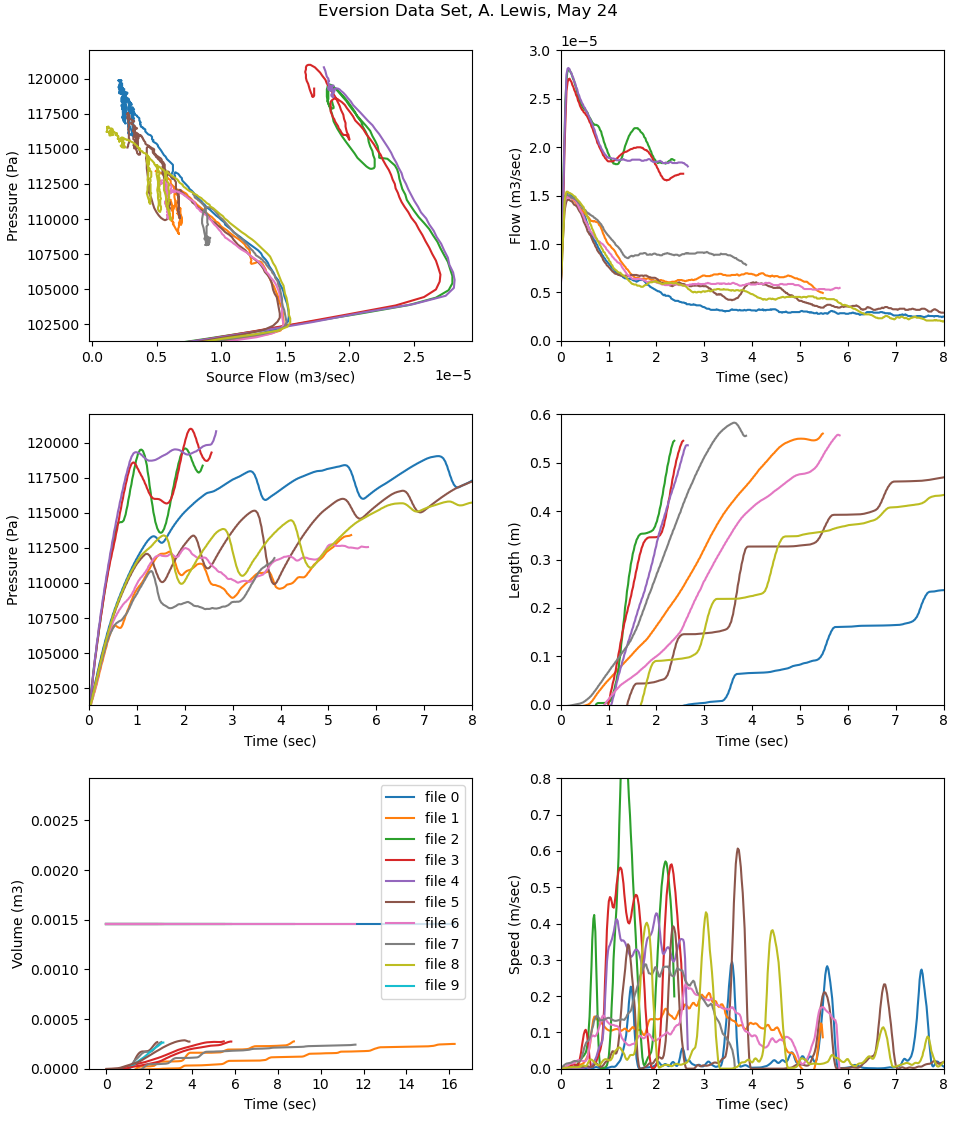
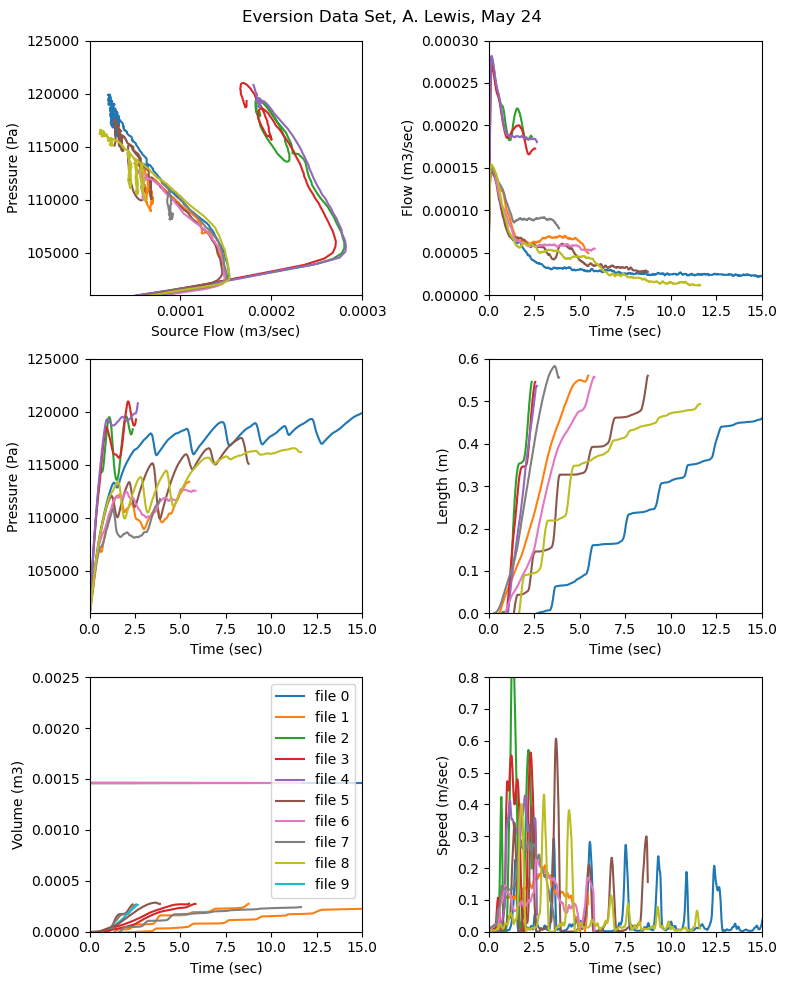
selective plotting in graphData makes plotData redundant

diff --git a/plotData.py b/plotData.py
@@ -89,6 +89,34 @@ ed = et.convert_units(ed,uc)
 # HACK
 ed['flow'] *= 10.0
 
+
+###################################################
+#
+#    Load plotting parameters
+#
+###################################################
+fnpr = 'plottingRanges.txt'
+fpp = open(fnpr,'r')
+prd = {}  #plotting range dict
+for line in fpp:
+    par, n1, n2 = line.split(':')
+    prd[par.strip()] = (float(n1), float(n2))
+print(prd)
+
+FPLOT = False
+PltTMIN  = prd['Time'][0]
+PltTMAX  = prd['Time'][1]
+PltPrMIN = prd['Pressure'][0]
+PltPrMAX = prd['Pressure'][1]
+PltFlMIN = prd['Flow'][0]
+PltFlMAX = prd['Flow'][1]
+PltLeMIN = prd['Length'][0]
+PltLeMAX = prd['Length'][1]
+PltSpMIN = prd['Speed'][0]
+PltSpMAX = prd['Speed'][1]
+PltVoMIN = prd['Volume'][0]
+PltVoMAX = prd['Volume'][1]
+
 #########################################################################
 #
 #   Plot all the subplots
@@ -103,6 +131,8 @@ PltTMAX = 8.0
 
 x = ed['flow']
 y = ed['P']
+time = ed['time']
+
     #HW= 0.00001
     #HL= 0.0001
 Interval = 25
@@ -112,7 +142,9 @@ axs[0,0].set_ylabel('Pressure (Pa)')
 axs[0,0].set_xlim(0,0.0003)
 plt.sca(axs[0,0])
 plt.xticks([0.0001, 0.0002, 0.0003])
-axs[0,0].set_ylim(pd['Patmosphere'], pd['Psource_SIu'])
+
+axs[0,0].set_xlim(PltFlMIN, PltFlMAX)
+axs[0,0].set_ylim(PltPrMIN, PltPrMAX)
 
 # Plot 2   # PRESSURE
 axs[1,0].plot(np.array(ed['time']), np.array(ed['P']), '--', color=clrs[1])  # Experimental Data
@@ -120,37 +152,44 @@ axs[1,0].plot(np.array(ed['time']), np.array(ed['P']), '--', color=clrs[1])  # E
 #axs[1,0].plot(time, pc2)
 axs[1,0].set_xlabel('Time (sec)')
 axs[1,0].set_ylabel('Pressure (Pa)')
-axs[1,0].set_xlim(PltTMIN, PltTMAX)
+
 
 # Plot 3
-#axs[2,0].plot(time, vol1, time, vol2 )
+axs[2,0].plot(time, ed['vol1'], time, ed['vol2'] )
 axs[2,0].legend(['Vhousing', 'Vtube'])
 axs[2,0].set_xlabel('Time (sec)')
 axs[2,0].set_ylabel('Volume (m3)')
+
 axs[2,0].set_xlim(PltTMIN, PltTMAX)
-#axs[2,0].set_ylim( 0.0012, 0.0022 )
+axs[2,0].set_ylim(PltVoMIN, PltVoMAX)
+
 
 axs[0,1].plot(ed['time'], ed['flow'], '--',color=clrs[1])  # Experimental Data
 #axs[0,1].plot(time, f, time, ft)
 axs[0,1].set_xlabel('Time (sec)')
 axs[0,1].set_ylabel('Flow (m3/sec)')
 axs[0,1].legend(['Source Flow', 'Tube Flow'])
+
 axs[0,1].set_xlim(PltTMIN, PltTMAX)
-axs[0,1].set_ylim(      0, 0.00020 )
+axs[0,1].set_ylim(PltFlMIN, PltFlMAX)
 
 axs[1,1].plot(ed['time'], ed['L'], '--',color=clrs[1])  # Experimental Data
 #axs[1,1].plot(time, l, time, lc)
 axs[1,1].set_xlabel('Time (sec)')
 axs[1,1].set_ylabel('Length (m)')
+
 axs[1,1].set_xlim(PltTMIN, PltTMAX)
-axs[1,1].set_ylim(      0, 0.600 )
+axs[1,1].set_ylim(PltLeMIN, PltLeMAX)
+
 
 axs[2,1].plot(ed['time'], ed['Ldot'], '--',color=clrs[1])  # Experimental Data
 #axs[2,1].plot(time, ldot)
 axs[2,1].set_xlabel('Time (sec)')
 axs[2,1].set_ylabel('Tube Velocity (m/sec)')
+
 axs[2,1].set_xlim(PltTMIN, PltTMAX)
-axs[2,1].set_ylim(      0, 0.5 )
+axs[2,1].set_ylim(PltSpMIN, PltSpMAX)
+
 
 
 

diff --git a/graphExpData.py b/graphExpData.py
@@ -71,6 +71,8 @@ for datadir in dataDirNames:
             cto.error('No brl_data files found')
         for f in files:
             #print('found: ',f)
+            if '.zip' in f:
+                next
             if '.csv' in f :
                 filenameroots.append(str(f).replace('.csv',''))
             if  '_meta.json' in f:
@@ -79,6 +81,26 @@ for datadir in dataDirNames:
         filenameroots = list(dict.fromkeys(filenameroots)) # elim dupes
         files += tfiles
         fnRoots += filenameroots
+
+print('file set: ', files)
+###################################################
+#
+#   Select Files
+#
+###################################################
+for i,fn in enumerate(files):
+    fn2 = fn.split('/')[1]
+    print(f'{i:3}  {fn2}')
+
+sel = str(input('Select file numbers (-1) for all: '))
+nums = sel.split()
+fset=[] # place to collect selected filenames
+if int(nums[0]) < 0:
+    fset = range(len(files))
+else:
+    for n in nums:
+        fset.append(int(n))
+
 
 ###################################################
 #
@@ -111,8 +133,11 @@ PltVoMAX = prd['Volume'][1]
 # Create a figure with subplots
 fig, axs = plt.subplots(3, 2, figsize=(8, 10))
 
-for i,fn in enumerate(files):
-    #print(f'{i:5}', fn)
+#for i,fn in enumerate(files):
+for fnum in fset:
+    fn = files[int(fnum)]
+
+    print(f'{i:5}', fn)
 
     #fn = dataDirName + '/' + fn
 
